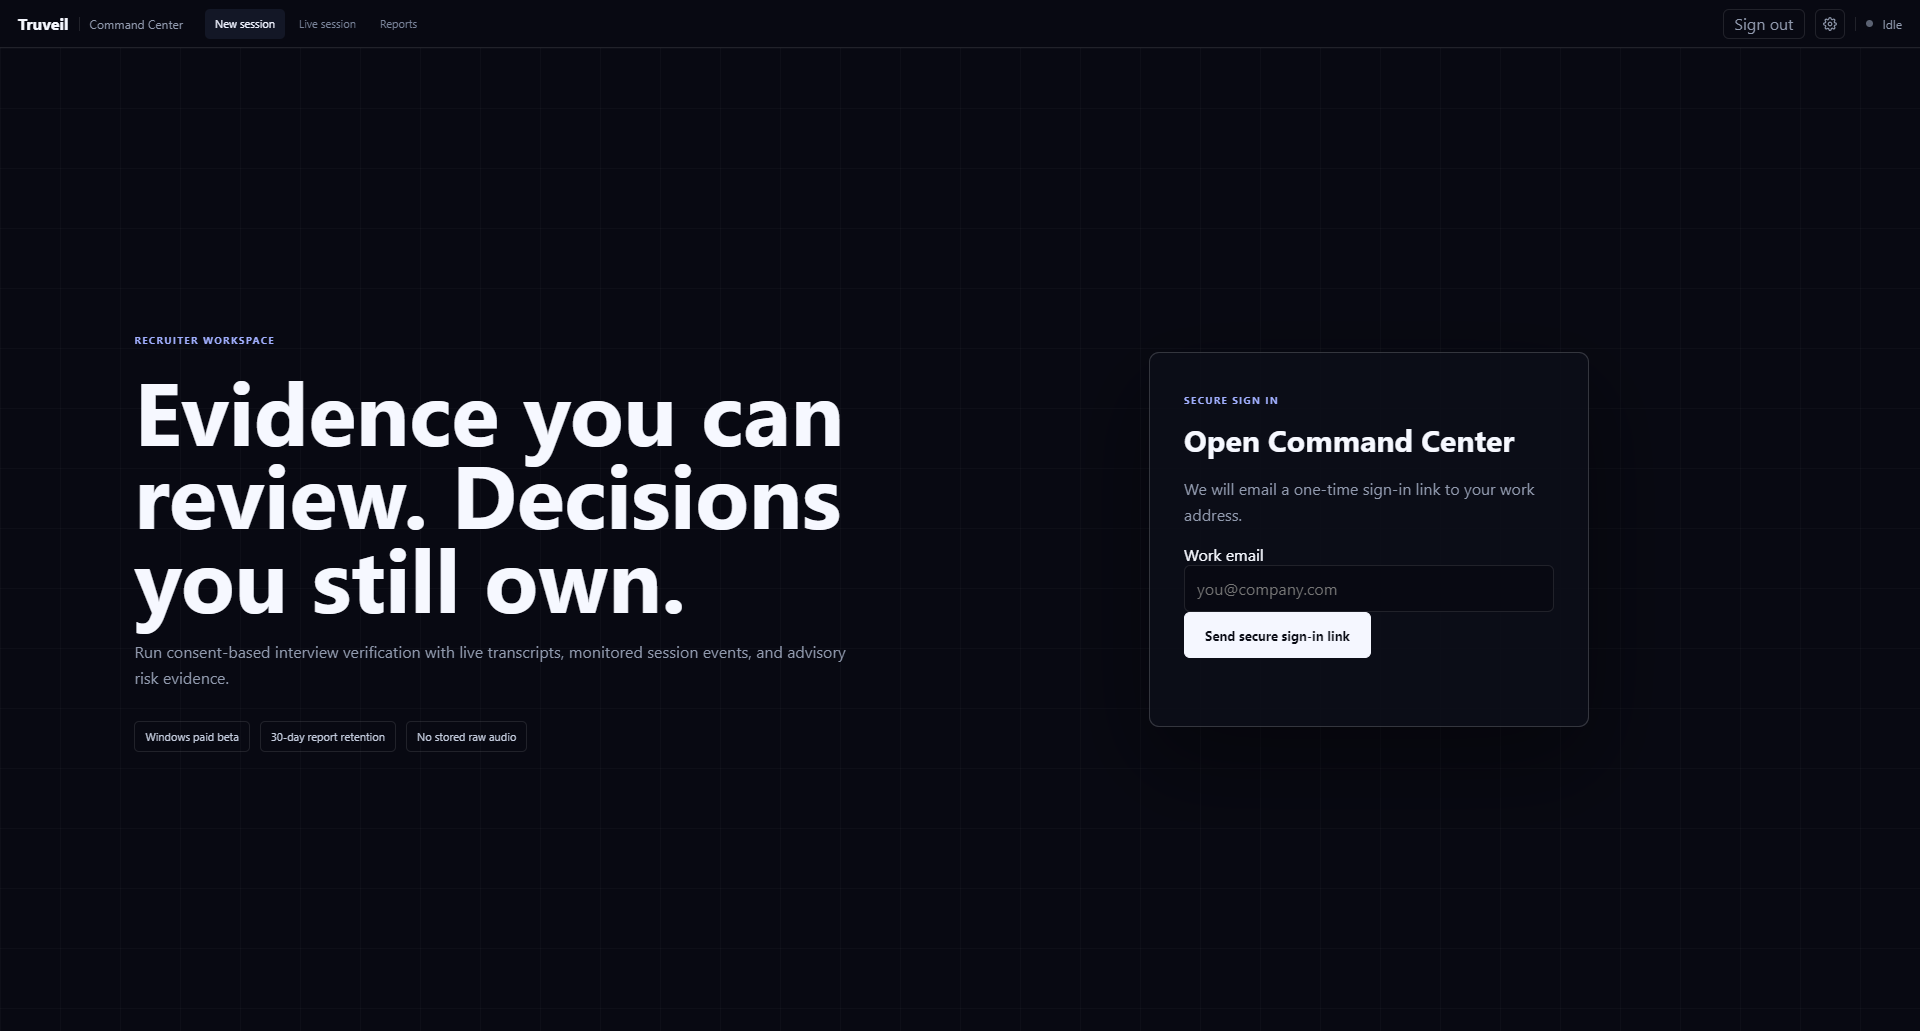
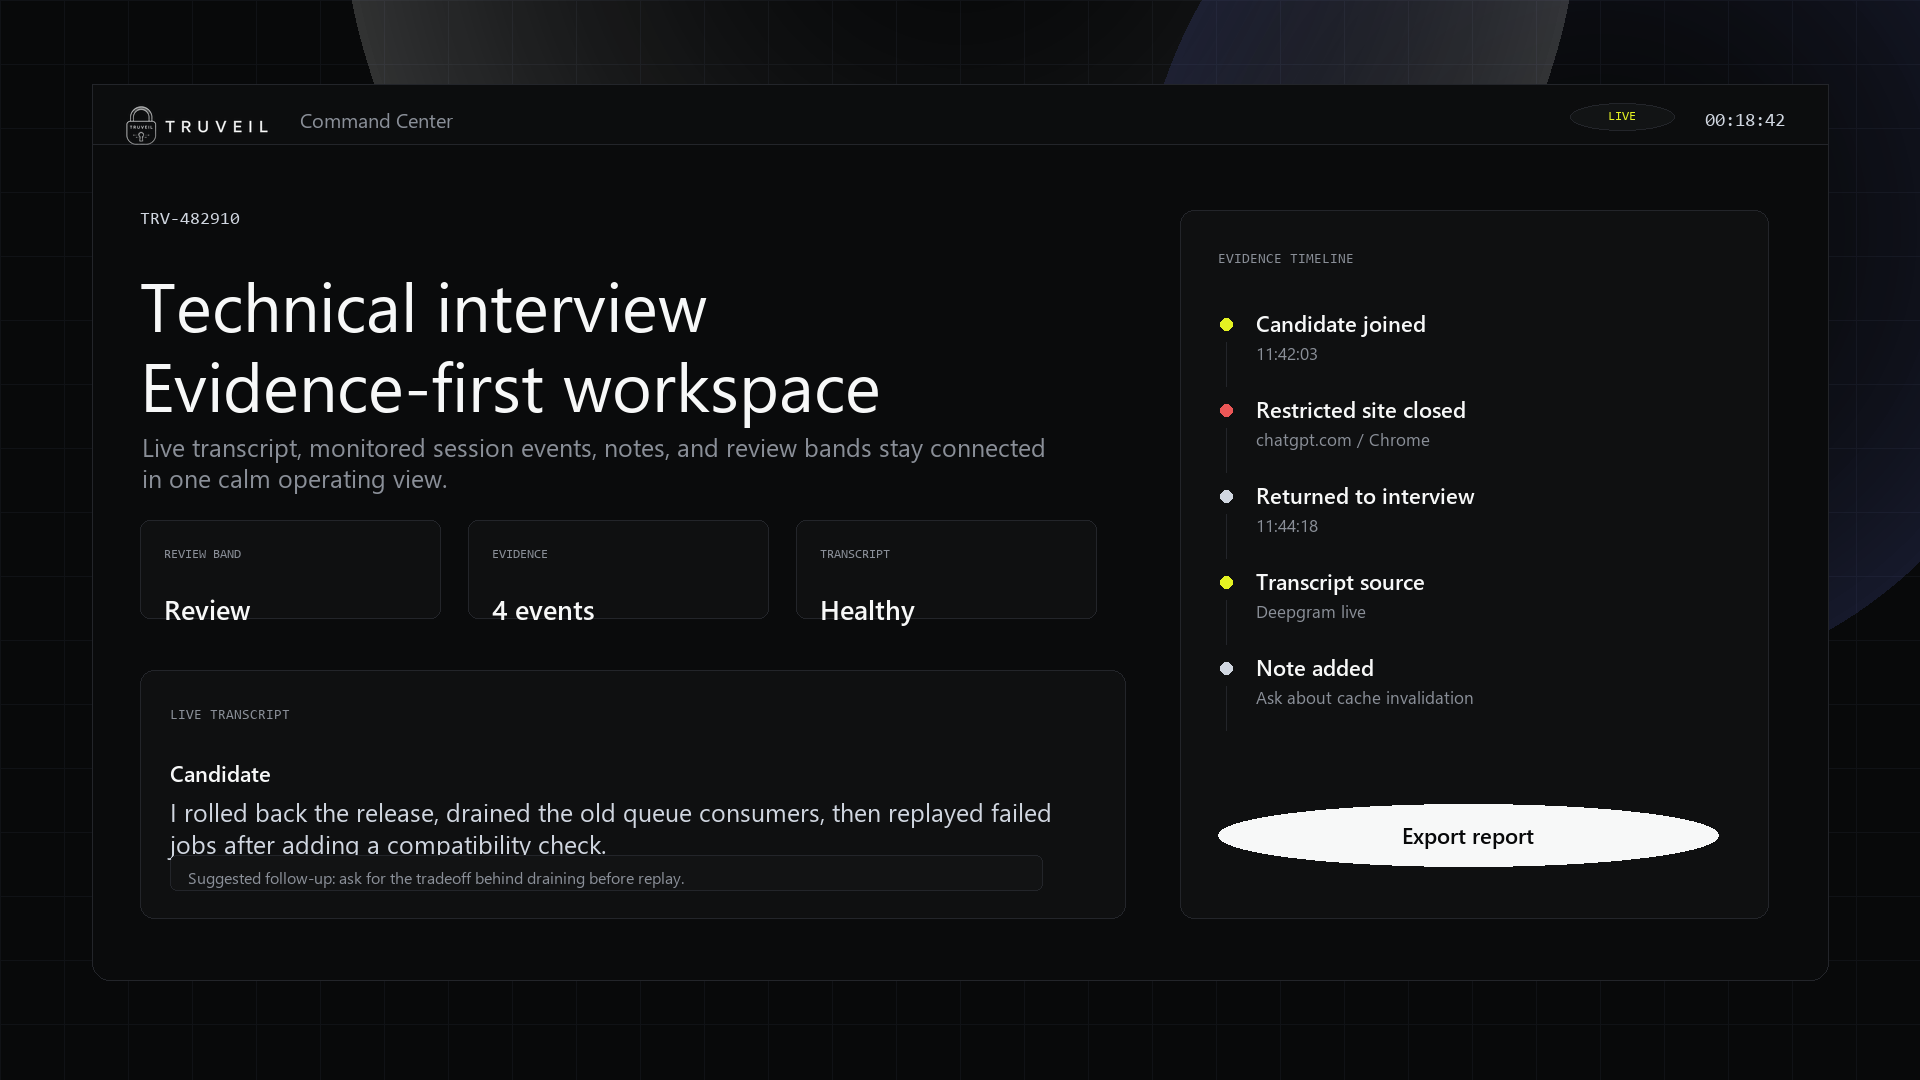
Refresh monochrome product visuals

diff --git a/recruiter-app/src/renderer/styles.css b/recruiter-app/src/renderer/styles.css
@@ -260,3 +260,27 @@ html,body {
   border-left-color: #eb5757;
   background: rgba(235,87,87,.055);
 }
+.app-brand {
+  width: 136px;
+  height: 30px;
+  gap: 0;
+}
+.app-brand img {
+  width: 100%;
+  height: 100%;
+  object-fit: contain;
+  object-position: left center;
+  transform: none;
+  border-radius: 0;
+}
+.gb-brand-mark {
+  width: 30px;
+  height: 30px;
+  border-radius: 0;
+}
+.gb-brand-mark img {
+  width: 100%;
+  height: 100%;
+  object-fit: contain;
+  transform: none;
+}

diff --git a/landing/styles.css b/landing/styles.css
@@ -380,3 +380,24 @@ footer {
   border-top: 1px solid var(--hairline);
   background: #08090a;
 }
+.brand {
+  width: 136px;
+  height: 32px;
+  overflow: visible;
+  filter: none;
+}
+.brand img {
+  width: 100%;
+  height: 100%;
+  object-fit: contain;
+  object-position: left center;
+  transform: none;
+}
+.console-brand img {
+  width: 120px;
+  height: 34px;
+  object-fit: contain;
+  object-position: left center;
+  transform: none;
+  border-radius: 0;
+}

diff --git a/landing/index.html b/landing/index.html
@@ -5,12 +5,12 @@
   <meta name="viewport" content="width=device-width, initial-scale=1">
   <meta name="description" content="Truveil gives interview teams live transcripts, monitored session events, notes, bookmarks, and evidence-first review reports.">
   <title>Truveil - Interview verification for careful teams</title>
-  <link rel="icon" type="image/png" href="img/brand/truveil-lock.png">
+  <link rel="icon" type="image/png" href="img/brand/truveil-lock-transparent.png">
   <link rel="stylesheet" href="styles.css">
 </head>
 <body>
   <header class="site-nav">
-    <a class="brand" href="#top" aria-label="Truveil home"><img src="img/brand/truveil-horizontal.png" alt="Truveil"></a>
+    <a class="brand" href="#top" aria-label="Truveil home"><img src="img/brand/truveil-horizontal-transparent.png" alt="Truveil"></a>
     <nav aria-label="Primary navigation">
       <a href="#product">Product</a>
       <a href="#how">How it works</a>
@@ -38,7 +38,7 @@
       </div>
       <div class="hero-console reveal" data-parallax="0.04" aria-label="Live Truveil Command Center preview">
         <div class="console-bar">
-          <div class="console-brand"><img src="img/brand/truveil-horizontal.png" alt=""><strong>Command Center</strong></div>
+          <div class="console-brand"><img src="img/brand/truveil-horizontal-transparent.png" alt=""><strong>Command Center</strong></div>
           <span class="console-session">TRV-482910</span>
           <span class="console-live"><i></i>Live</span>
         </div>
@@ -146,7 +146,7 @@
   </main>
 
   <footer>
-    <a class="brand" href="#top"><img src="img/brand/truveil-horizontal.png" alt="Truveil"></a>
+    <a class="brand" href="#top"><img src="img/brand/truveil-horizontal-transparent.png" alt="Truveil"></a>
     <p>Advisory interview verification. Human review required.</p>
     <a href="/downloads/TruveilRecruiter-Setup-1.0.0.exe.sha256" download>SHA-256 checksum</a>
     <a href="/privacy.html">Privacy</a>

diff --git a/recruiter-app/src/renderer/index.html b/recruiter-app/src/renderer/index.html
@@ -4,7 +4,7 @@
   <meta charset="UTF-8">
   <meta name="viewport" content="width=device-width, initial-scale=1.0">
   <title>Truveil Command Center</title>
-  <link rel="icon" href="../../assets/truveil.ico">
+  <link rel="icon" type="image/png" href="../../assets/brand/truveil-lock-transparent.png">
   <link rel="stylesheet" href="styles.css">
 </head>
 <body>
@@ -23,7 +23,7 @@
   <!-- ─── Title Bar ─── -->
   <div class="titlebar">
     <div class="tb-left">
-      <span class="app-brand"><img src="../../assets/truveil.ico" alt=""><strong>Truveil</strong></span>
+      <span class="app-brand"><img src="../../assets/brand/truveil-horizontal-transparent.png" alt="Truveil"></span>
       <span class="tb-divider"></span>
       <span class="tb-app">Command Center</span>
       <nav class="workspace-nav" aria-label="Workspace">
@@ -229,7 +229,7 @@ teams.microsoft.com</textarea>
 
       <div class="glass-bar">
         <div class="gb-left">
-          <span class="gb-brand-mark"><img src="../../assets/truveil.ico" alt=""></span>
+          <span class="gb-brand-mark"><img src="../../assets/brand/truveil-lock-transparent.png" alt=""></span>
           <span class="glass-title" id="glassTitle">Truveil Command Center</span>
           <span class="session-arm-badge">Transcript-first verification</span>
         </div>